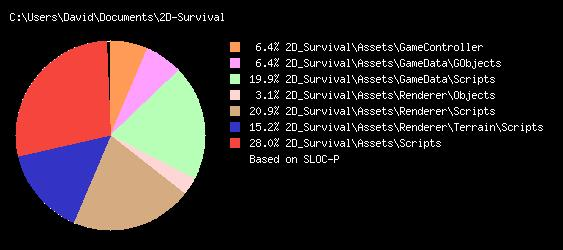
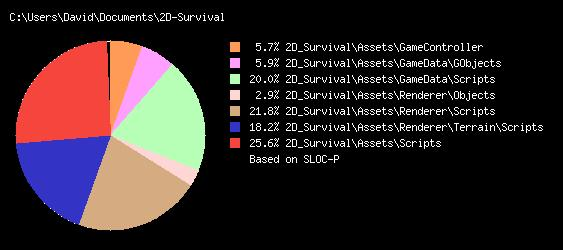
Documentacion agregada

diff --git a/LocMetrics.html b/LocMetrics.html
@@ -1,1 +1,1 @@
-<html xmlns="http:////www.w3.org//1999//xhtml" xml:lang="en" lang="en"><head><title></title><LINK REL=StyleSheet HREF="LocMetrics.css" TYPE="text/css" MEDIA=screen></head><body><img src="LocMetricsPie.jpg"/><p></p><TABLE CLASS="MYTABLE"><CAPTION CLASS="MYTABLE">Overall</CAPTION><THEAD ><TR CLASS="MYTABLE"><TH CLASS="MYTABLE">Symbol</TH><TH CLASS="MYTABLE">Count</TH><TH CLASS="MYTABLE">Definition</TH></TR></THEAD><TBODY><TR CLASS="MYTABLE"><TD CLASS="MYTABLEL">Source Files</TD><TD CLASS="MYTABLEL">20</TD><TD CLASS="MYTABLEL">Source Files</TD><TR CLASS="MYTABLE"><TD CLASS="MYTABLEL">Directories</TD><TD CLASS="MYTABLEL">307</TD><TD CLASS="MYTABLEL">Directories</TD><TR CLASS="MYTABLE"><TD CLASS="MYTABLEL">LOC</TD><TD CLASS="MYTABLEL">922</TD><TD CLASS="MYTABLEL">Lines of Code</TD><TR CLASS="MYTABLE"><TD CLASS="MYTABLEL">BLOC</TD><TD CLASS="MYTABLEL">220</TD><TD CLASS="MYTABLEL">Blank Lines of Code</TD><TR CLASS="MYTABLE"><TD CLASS="MYTABLEL">SLOC-P</TD><TD CLASS="MYTABLEL">607</TD><TD CLASS="MYTABLEL">Physical Executable Lines of Code</TD><TR CLASS="MYTABLE"><TD CLASS="MYTABLEL">SLOC-L </TD><TD CLASS="MYTABLEL">466</TD><TD CLASS="MYTABLEL">Logical Executable Lines of Code</TD><TR CLASS="MYTABLE"><TD CLASS="MYTABLEL">MVG</TD><TD CLASS="MYTABLEL">51</TD><TD CLASS="MYTABLEL">McCabe VG Complexity</TD><TR CLASS="MYTABLE"><TD CLASS="MYTABLEL">C&SLOC</TD><TD CLASS="MYTABLEL">1</TD><TD CLASS="MYTABLEL">Code and Comment Lines of Code</TD><TR CLASS="MYTABLE"><TD CLASS="MYTABLEL">CLOC</TD><TD CLASS="MYTABLEL">95</TD><TD CLASS="MYTABLEL">Comment Only Lines of Code</TD><TR CLASS="MYTABLE"><TD CLASS="MYTABLEL">CWORD</TD><TD CLASS="MYTABLEL">419</TD><TD CLASS="MYTABLEL">Commentary Words</TD><TR CLASS="MYTABLE"><TD CLASS="MYTABLEL">HCLOC</TD><TD CLASS="MYTABLEL">0</TD><TD CLASS="MYTABLEL">Header Comment Lines of Code</TD><TR CLASS="MYTABLE"><TD CLASS="MYTABLEL">HCWORD</TD><TD CLASS="MYTABLEL">0</TD><TD CLASS="MYTABLEL">Header Commentary Words</TD></TBODY></TABLE><p></p><TABLE CLASS="MYTABLE"><CAPTION CLASS="MYTABLE">C:\Users\David\Documents\2D-Survival - FOLDERS</CAPTION><THEAD ><TR CLASS="MYTABLE"><TH CLASS="MYTABLE">Folder</TH><TH CLASS="MYTABLE">Files</TH><TH CLASS="MYTABLE">LOC</TH><TH CLASS="MYTABLE">SLOC Physical</TH><TH CLASS="MYTABLE">SLOC Logical</TH><TH CLASS="MYTABLE">MVG</TH><TH CLASS="MYTABLE">BLOC</TH><TH CLASS="MYTABLE">C&SLOC</TH><TH CLASS="MYTABLE">CLOC</TH><TH CLASS="MYTABLE">CWORD</TH><TH CLASS="MYTABLE">HCLOC</TH><TH CLASS="MYTABLE">HCWORD</TH></TR></THEAD><TBODY><TR CLASS="MYTABLE"><TD CLASS="MYTABLEL">Total</TD><TD CLASS="MYTABLEL">20</TD><TD CLASS="MYTABLE">922</TD><TD CLASS="MYTABLE">607</TD><TD CLASS="MYTABLE">466</TD><TD CLASS="MYTABLE">51</TD><TD CLASS="MYTABLE">220</TD><TD CLASS="MYTABLE">1</TD><TD CLASS="MYTABLE">95</TD><TD CLASS="MYTABLE">419</TD><TD CLASS="MYTABLE">0</TD><TD CLASS="MYTABLE">0</TD><TR CLASS="MYTABLE"><TD CLASS="MYTABLEL">C:\Users\David\Documents\2D-Survival</TD><TD CLASS="MYTABLEL">20</TD><TD CLASS="MYTABLE">922</TD><TD CLASS="MYTABLE">607</TD><TD CLASS="MYTABLE">466</TD><TD CLASS="MYTABLE">51</TD><TD CLASS="MYTABLE">220</TD><TD CLASS="MYTABLE">1</TD><TD CLASS="MYTABLE">95</TD><TD CLASS="MYTABLE">419</TD><TD CLASS="MYTABLE">0</TD><TD CLASS="MYTABLE">0</TD><TR CLASS="MYTABLE"><TD CLASS="MYTABLEL">C:\Users\David\Documents\2D-Survival\2D_Survival</TD><TD CLASS="MYTABLEL">20</TD><TD CLASS="MYTABLE">922</TD><TD CLASS="MYTABLE">607</TD><TD CLASS="MYTABLE">466</TD><TD CLASS="MYTABLE">51</TD><TD CLASS="MYTABLE">220</TD><TD CLASS="MYTABLE">1</TD><TD CLASS="MYTABLE">95</TD><TD CLASS="MYTABLE">419</TD><TD CLASS="MYTABLE">0</TD><TD CLASS="MYTABLE">0</TD><TR CLASS="MYTABLE"><TD CLASS="MYTABLEL">C:\Users\David\Documents\2D-Survival\2D_Survival\Assets</TD><TD CLASS="MYTABLEL">20</TD><TD CLASS="MYTABLE">922</TD><TD CLASS="MYTABLE">607</TD><TD CLASS="MYTABLE">466</TD><TD CLASS="MYTABLE">51</TD><TD CLASS="MYTABLE">220</TD><TD CLASS="MYTABLE">1</TD><TD CLASS="MYTABLE">95</TD><TD CLASS="MYTABLE">419</TD><TD CLASS="MYTABLE">0</TD><TD CLASS="MYTABLE">0</TD><TR CLASS="MYTABLE"><TD CLASS="MYTABLEL">C:\Users\David\Documents\2D-Survival\2D_Survival\Assets\GameController</TD><TD CLASS="MYTABLEL">1</TD><TD CLASS="MYTABLE">54</TD><TD CLASS="MYTABLE">39</TD><TD CLASS="MYTABLE">31</TD><TD CLASS="MYTABLE">2</TD><TD CLASS="MYTABLE">13</TD><TD CLASS="MYTABLE">0</TD><TD CLASS="MYTABLE">2</TD><TD CLASS="MYTABLE">10</TD><TD CLASS="MYTABLE">0</TD><TD CLASS="MYTABLE">0</TD><TR CLASS="MYTABLE"><TD CLASS="MYTABLEL">C:\Users\David\Documents\2D-Survival\2D_Survival\Assets\GameController\Scripts</TD><TD CLASS="MYTABLEL">1</TD><TD CLASS="MYTABLE">54</TD><TD CLASS="MYTABLE">39</TD><TD CLASS="MYTABLE">31</TD><TD CLASS="MYTABLE">2</TD><TD CLASS="MYTABLE">13</TD><TD CLASS="MYTABLE">0</TD><TD CLASS="MYTABLE">2</TD><TD CLASS="MYTABLE">10</TD><TD CLASS="MYTABLE">0</TD><TD CLASS="MYTABLE">0</TD><TR CLASS="MYTABLE"><TD CLASS="MYTABLEL">C:\Users\David\Documents\2D-Survival\2D_Survival\Assets\GameData</TD><TD CLASS="MYTABLEL">12</TD><TD CLASS="MYTABLE">241</TD><TD CLASS="MYTABLE">160</TD><TD CLASS="MYTABLE">115</TD><TD CLASS="MYTABLE">10</TD><TD CLASS="MYTABLE">67</TD><TD CLASS="MYTABLE">0</TD><TD CLASS="MYTABLE">14</TD><TD CLASS="MYTABLE">48</TD><TD CLASS="MYTABLE">0</TD><TD CLASS="MYTABLE">0</TD><TR CLASS="MYTABLE"><TD CLASS="MYTABLEL">C:\Users\David\Documents\2D-Survival\2D_Survival\Assets\GameData\GObjects</TD><TD CLASS="MYTABLEL">9</TD><TD CLASS="MYTABLE">74</TD><TD CLASS="MYTABLE">39</TD><TD CLASS="MYTABLE">30</TD><TD CLASS="MYTABLE">0</TD><TD CLASS="MYTABLE">35</TD><TD CLASS="MYTABLE">0</TD><TD CLASS="MYTABLE">0</TD><TD CLASS="MYTABLE">0</TD><TD CLASS="MYTABLE">0</TD><TD CLASS="MYTABLE">0</TD><TR CLASS="MYTABLE"><TD CLASS="MYTABLEL">C:\Users\David\Documents\2D-Survival\2D_Survival\Assets\GameData\GObjects\GActors</TD><TD CLASS="MYTABLEL">4</TD><TD CLASS="MYTABLE">33</TD><TD CLASS="MYTABLE">16</TD><TD CLASS="MYTABLE">12</TD><TD CLASS="MYTABLE">0</TD><TD CLASS="MYTABLE">17</TD><TD CLASS="MYTABLE">0</TD><TD CLASS="MYTABLE">0</TD><TD CLASS="MYTABLE">0</TD><TD CLASS="MYTABLE">0</TD><TD CLASS="MYTABLE">0</TD><TR CLASS="MYTABLE"><TD CLASS="MYTABLEL">C:\Users\David\Documents\2D-Survival\2D_Survival\Assets\GameData\GObjects\GActors\Species</TD><TD CLASS="MYTABLEL">1</TD><TD CLASS="MYTABLE">9</TD><TD CLASS="MYTABLE">4</TD><TD CLASS="MYTABLE">3</TD><TD CLASS="MYTABLE">0</TD><TD CLASS="MYTABLE">5</TD><TD CLASS="MYTABLE">0</TD><TD CLASS="MYTABLE">0</TD><TD CLASS="MYTABLE">0</TD><TD CLASS="MYTABLE">0</TD><TD CLASS="MYTABLE">0</TD><TR CLASS="MYTABLE"><TD CLASS="MYTABLEL">C:\Users\David\Documents\2D-Survival\2D_Survival\Assets\GameData\GObjects\GItems</TD><TD CLASS="MYTABLEL">2</TD><TD CLASS="MYTABLE">16</TD><TD CLASS="MYTABLE">8</TD><TD CLASS="MYTABLE">6</TD><TD CLASS="MYTABLE">0</TD><TD CLASS="MYTABLE">8</TD><TD CLASS="MYTABLE">0</TD><TD CLASS="MYTABLE">0</TD><TD CLASS="MYTABLE">0</TD><TD CLASS="MYTABLE">0</TD><TD CLASS="MYTABLE">0</TD><TR CLASS="MYTABLE"><TD CLASS="MYTABLEL">C:\Users\David\Documents\2D-Survival\2D_Survival\Assets\GameData\GObjects\GStructures</TD><TD CLASS="MYTABLEL">2</TD><TD CLASS="MYTABLE">16</TD><TD CLASS="MYTABLE">8</TD><TD CLASS="MYTABLE">6</TD><TD CLASS="MYTABLE">0</TD><TD CLASS="MYTABLE">8</TD><TD CLASS="MYTABLE">0</TD><TD CLASS="MYTABLE">0</TD><TD CLASS="MYTABLE">0</TD><TD CLASS="MYTABLE">0</TD><TD CLASS="MYTABLE">0</TD><TR CLASS="MYTABLE"><TD CLASS="MYTABLEL">C:\Users\David\Documents\2D-Survival\2D_Survival\Assets\GameData\Scripts</TD><TD CLASS="MYTABLEL">3</TD><TD CLASS="MYTABLE">167</TD><TD CLASS="MYTABLE">121</TD><TD CLASS="MYTABLE">85</TD><TD CLASS="MYTABLE">10</TD><TD CLASS="MYTABLE">32</TD><TD CLASS="MYTABLE">0</TD><TD CLASS="MYTABLE">14</TD><TD CLASS="MYTABLE">48</TD><TD CLASS="MYTABLE">0</TD><TD CLASS="MYTABLE">0</TD><TR CLASS="MYTABLE"><TD CLASS="MYTABLEL">C:\Users\David\Documents\2D-Survival\2D_Survival\Assets\Renderer</TD><TD CLASS="MYTABLEL">4</TD><TD CLASS="MYTABLE">351</TD><TD CLASS="MYTABLE">238</TD><TD CLASS="MYTABLE">182</TD><TD CLASS="MYTABLE">19</TD><TD CLASS="MYTABLE">90</TD><TD CLASS="MYTABLE">0</TD><TD CLASS="MYTABLE">23</TD><TD CLASS="MYTABLE">80</TD><TD CLASS="MYTABLE">0</TD><TD CLASS="MYTABLE">0</TD><TR CLASS="MYTABLE"><TD CLASS="MYTABLEL">C:\Users\David\Documents\2D-Survival\2D_Survival\Assets\Renderer\Objects</TD><TD CLASS="MYTABLEL">1</TD><TD CLASS="MYTABLE">29</TD><TD CLASS="MYTABLE">19</TD><TD CLASS="MYTABLE">15</TD><TD CLASS="MYTABLE">1</TD><TD CLASS="MYTABLE">8</TD><TD CLASS="MYTABLE">0</TD><TD CLASS="MYTABLE">2</TD><TD CLASS="MYTABLE">7</TD><TD CLASS="MYTABLE">0</TD><TD CLASS="MYTABLE">0</TD><TR CLASS="MYTABLE"><TD CLASS="MYTABLEL">C:\Users\David\Documents\2D-Survival\2D_Survival\Assets\Renderer\Objects\Scripts</TD><TD CLASS="MYTABLEL">1</TD><TD CLASS="MYTABLE">29</TD><TD CLASS="MYTABLE">19</TD><TD CLASS="MYTABLE">15</TD><TD CLASS="MYTABLE">1</TD><TD CLASS="MYTABLE">8</TD><TD CLASS="MYTABLE">0</TD><TD CLASS="MYTABLE">2</TD><TD CLASS="MYTABLE">7</TD><TD CLASS="MYTABLE">0</TD><TD CLASS="MYTABLE">0</TD><TR CLASS="MYTABLE"><TD CLASS="MYTABLEL">C:\Users\David\Documents\2D-Survival\2D_Survival\Assets\Renderer\Scripts</TD><TD CLASS="MYTABLEL">1</TD><TD CLASS="MYTABLE">192</TD><TD CLASS="MYTABLE">127</TD><TD CLASS="MYTABLE">93</TD><TD CLASS="MYTABLE">12</TD><TD CLASS="MYTABLE">52</TD><TD CLASS="MYTABLE">0</TD><TD CLASS="MYTABLE">13</TD><TD CLASS="MYTABLE">41</TD><TD CLASS="MYTABLE">0</TD><TD CLASS="MYTABLE">0</TD><TR CLASS="MYTABLE"><TD CLASS="MYTABLEL">C:\Users\David\Documents\2D-Survival\2D_Survival\Assets\Renderer\Terrain</TD><TD CLASS="MYTABLEL">2</TD><TD CLASS="MYTABLE">130</TD><TD CLASS="MYTABLE">92</TD><TD CLASS="MYTABLE">74</TD><TD CLASS="MYTABLE">6</TD><TD CLASS="MYTABLE">30</TD><TD CLASS="MYTABLE">0</TD><TD CLASS="MYTABLE">8</TD><TD CLASS="MYTABLE">32</TD><TD CLASS="MYTABLE">0</TD><TD CLASS="MYTABLE">0</TD><TR CLASS="MYTABLE"><TD CLASS="MYTABLEL">C:\Users\David\Documents\2D-Survival\2D_Survival\Assets\Renderer\Terrain\Scripts</TD><TD CLASS="MYTABLEL">2</TD><TD CLASS="MYTABLE">130</TD><TD CLASS="MYTABLE">92</TD><TD CLASS="MYTABLE">74</TD><TD CLASS="MYTABLE">6</TD><TD CLASS="MYTABLE">30</TD><TD CLASS="MYTABLE">0</TD><TD CLASS="MYTABLE">8</TD><TD CLASS="MYTABLE">32</TD><TD CLASS="MYTABLE">0</TD><TD CLASS="MYTABLE">0</TD><TR CLASS="MYTABLE"><TD CLASS="MYTABLEL">C:\Users\David\Documents\2D-Survival\2D_Survival\Assets\Scripts</TD><TD CLASS="MYTABLEL">3</TD><TD CLASS="MYTABLE">276</TD><TD CLASS="MYTABLE">170</TD><TD CLASS="MYTABLE">138</TD><TD CLASS="MYTABLE">20</TD><TD CLASS="MYTABLE">50</TD><TD CLASS="MYTABLE">1</TD><TD CLASS="MYTABLE">56</TD><TD CLASS="MYTABLE">281</TD><TD CLASS="MYTABLE">0</TD><TD CLASS="MYTABLE">0</TD></TBODY></TABLE><p></p><TABLE CLASS="MYTABLE"><CAPTION CLASS="MYTABLE">C:\Users\David\Documents\2D-Survival - FILES</CAPTION><THEAD ><TR CLASS="MYTABLE"><TH CLASS="MYTABLE">File</TH><TH CLASS="MYTABLE">LOC</TH><TH CLASS="MYTABLE">SLOC Physical</TH><TH CLASS="MYTABLE">SLOC Logical</TH><TH CLASS="MYTABLE">MVG</TH><TH CLASS="MYTABLE">BLOC</TH><TH CLASS="MYTABLE">C&SLOC</TH><TH CLASS="MYTABLE">CLOC</TH><TH CLASS="MYTABLE">CWORD</TH><TH CLASS="MYTABLE">HCLOC</TH><TH CLASS="MYTABLE">HCWORD</TH></TR></THEAD><TBODY><TR CLASS="MYTABLE"><TD CLASS="MYTABLEL">C:\Users\David\Documents\2D-Survival\2D_Survival\Assets\GameController\Scripts\GameController.cs</TD><TD CLASS="MYTABLE">54</TD><TD CLASS="MYTABLE">39</TD><TD CLASS="MYTABLE">31</TD><TD CLASS="MYTABLE">2</TD><TD CLASS="MYTABLE">13</TD><TD CLASS="MYTABLE">0</TD><TD CLASS="MYTABLE">2</TD><TD CLASS="MYTABLE">10</TD><TD CLASS="MYTABLE">0</TD><TD CLASS="MYTABLE">0</TD><TR CLASS="MYTABLE"><TD CLASS="MYTABLEL">C:\Users\David\Documents\2D-Survival\2D_Survival\Assets\GameData\GObjects\GObject.cs</TD><TD CLASS="MYTABLE">9</TD><TD CLASS="MYTABLE">7</TD><TD CLASS="MYTABLE">6</TD><TD CLASS="MYTABLE">0</TD><TD CLASS="MYTABLE">2</TD><TD CLASS="MYTABLE">0</TD><TD CLASS="MYTABLE">0</TD><TD CLASS="MYTABLE">0</TD><TD CLASS="MYTABLE">0</TD><TD CLASS="MYTABLE">0</TD><TR CLASS="MYTABLE"><TD CLASS="MYTABLEL">C:\Users\David\Documents\2D-Survival\2D_Survival\Assets\GameData\GObjects\GActors\Birch.cs</TD><TD CLASS="MYTABLE">8</TD><TD CLASS="MYTABLE">4</TD><TD CLASS="MYTABLE">3</TD><TD CLASS="MYTABLE">0</TD><TD CLASS="MYTABLE">4</TD><TD CLASS="MYTABLE">0</TD><TD CLASS="MYTABLE">0</TD><TD CLASS="MYTABLE">0</TD><TD CLASS="MYTABLE">0</TD><TD CLASS="MYTABLE">0</TD><TR CLASS="MYTABLE"><TD CLASS="MYTABLEL">C:\Users\David\Documents\2D-Survival\2D_Survival\Assets\GameData\GObjects\GActors\GActor.cs</TD><TD CLASS="MYTABLE">8</TD><TD CLASS="MYTABLE">4</TD><TD CLASS="MYTABLE">3</TD><TD CLASS="MYTABLE">0</TD><TD CLASS="MYTABLE">4</TD><TD CLASS="MYTABLE">0</TD><TD CLASS="MYTABLE">0</TD><TD CLASS="MYTABLE">0</TD><TD CLASS="MYTABLE">0</TD><TD CLASS="MYTABLE">0</TD><TR CLASS="MYTABLE"><TD CLASS="MYTABLEL">C:\Users\David\Documents\2D-Survival\2D_Survival\Assets\GameData\GObjects\GActors\Player.cs</TD><TD CLASS="MYTABLE">8</TD><TD CLASS="MYTABLE">4</TD><TD CLASS="MYTABLE">3</TD><TD CLASS="MYTABLE">0</TD><TD CLASS="MYTABLE">4</TD><TD CLASS="MYTABLE">0</TD><TD CLASS="MYTABLE">0</TD><TD CLASS="MYTABLE">0</TD><TD CLASS="MYTABLE">0</TD><TD CLASS="MYTABLE">0</TD><TR CLASS="MYTABLE"><TD CLASS="MYTABLEL">C:\Users\David\Documents\2D-Survival\2D_Survival\Assets\GameData\GObjects\GActors\Species\Species.cs</TD><TD CLASS="MYTABLE">9</TD><TD CLASS="MYTABLE">4</TD><TD CLASS="MYTABLE">3</TD><TD CLASS="MYTABLE">0</TD><TD CLASS="MYTABLE">5</TD><TD CLASS="MYTABLE">0</TD><TD CLASS="MYTABLE">0</TD><TD CLASS="MYTABLE">0</TD><TD CLASS="MYTABLE">0</TD><TD CLASS="MYTABLE">0</TD><TR CLASS="MYTABLE"><TD CLASS="MYTABLEL">C:\Users\David\Documents\2D-Survival\2D_Survival\Assets\GameData\GObjects\GItems\Berry.cs</TD><TD CLASS="MYTABLE">8</TD><TD CLASS="MYTABLE">4</TD><TD CLASS="MYTABLE">3</TD><TD CLASS="MYTABLE">0</TD><TD CLASS="MYTABLE">4</TD><TD CLASS="MYTABLE">0</TD><TD CLASS="MYTABLE">0</TD><TD CLASS="MYTABLE">0</TD><TD CLASS="MYTABLE">0</TD><TD CLASS="MYTABLE">0</TD><TR CLASS="MYTABLE"><TD CLASS="MYTABLEL">C:\Users\David\Documents\2D-Survival\2D_Survival\Assets\GameData\GObjects\GItems\GItem.cs</TD><TD CLASS="MYTABLE">8</TD><TD CLASS="MYTABLE">4</TD><TD CLASS="MYTABLE">3</TD><TD CLASS="MYTABLE">0</TD><TD CLASS="MYTABLE">4</TD><TD CLASS="MYTABLE">0</TD><TD CLASS="MYTABLE">0</TD><TD CLASS="MYTABLE">0</TD><TD CLASS="MYTABLE">0</TD><TD CLASS="MYTABLE">0</TD><TR CLASS="MYTABLE"><TD CLASS="MYTABLEL">C:\Users\David\Documents\2D-Survival\2D_Survival\Assets\GameData\GObjects\GStructures\Barrel.cs</TD><TD CLASS="MYTABLE">8</TD><TD CLASS="MYTABLE">4</TD><TD CLASS="MYTABLE">3</TD><TD CLASS="MYTABLE">0</TD><TD CLASS="MYTABLE">4</TD><TD CLASS="MYTABLE">0</TD><TD CLASS="MYTABLE">0</TD><TD CLASS="MYTABLE">0</TD><TD CLASS="MYTABLE">0</TD><TD CLASS="MYTABLE">0</TD><TR CLASS="MYTABLE"><TD CLASS="MYTABLEL">C:\Users\David\Documents\2D-Survival\2D_Survival\Assets\GameData\GObjects\GStructures\GStructure.cs</TD><TD CLASS="MYTABLE">8</TD><TD CLASS="MYTABLE">4</TD><TD CLASS="MYTABLE">3</TD><TD CLASS="MYTABLE">0</TD><TD CLASS="MYTABLE">4</TD><TD CLASS="MYTABLE">0</TD><TD CLASS="MYTABLE">0</TD><TD CLASS="MYTABLE">0</TD><TD CLASS="MYTABLE">0</TD><TD CLASS="MYTABLE">0</TD><TR CLASS="MYTABLE"><TD CLASS="MYTABLEL">C:\Users\David\Documents\2D-Survival\2D_Survival\Assets\GameData\Scripts\GameData.cs</TD><TD CLASS="MYTABLE">110</TD><TD CLASS="MYTABLE">80</TD><TD CLASS="MYTABLE">50</TD><TD CLASS="MYTABLE">10</TD><TD CLASS="MYTABLE">19</TD><TD CLASS="MYTABLE">0</TD><TD CLASS="MYTABLE">11</TD><TD CLASS="MYTABLE">36</TD><TD CLASS="MYTABLE">0</TD><TD CLASS="MYTABLE">0</TD><TR CLASS="MYTABLE"><TD CLASS="MYTABLEL">C:\Users\David\Documents\2D-Survival\2D_Survival\Assets\GameData\Scripts\GTile.cs</TD><TD CLASS="MYTABLE">19</TD><TD CLASS="MYTABLE">13</TD><TD CLASS="MYTABLE">11</TD><TD CLASS="MYTABLE">0</TD><TD CLASS="MYTABLE">5</TD><TD CLASS="MYTABLE">0</TD><TD CLASS="MYTABLE">1</TD><TD CLASS="MYTABLE">4</TD><TD CLASS="MYTABLE">0</TD><TD CLASS="MYTABLE">0</TD><TR CLASS="MYTABLE"><TD CLASS="MYTABLEL">C:\Users\David\Documents\2D-Survival\2D_Survival\Assets\GameData\Scripts\WorldSector.cs</TD><TD CLASS="MYTABLE">38</TD><TD CLASS="MYTABLE">28</TD><TD CLASS="MYTABLE">24</TD><TD CLASS="MYTABLE">0</TD><TD CLASS="MYTABLE">8</TD><TD CLASS="MYTABLE">0</TD><TD CLASS="MYTABLE">2</TD><TD CLASS="MYTABLE">8</TD><TD CLASS="MYTABLE">0</TD><TD CLASS="MYTABLE">0</TD><TR CLASS="MYTABLE"><TD CLASS="MYTABLEL">C:\Users\David\Documents\2D-Survival\2D_Survival\Assets\Renderer\Objects\Scripts\ObjectRenderer.cs</TD><TD CLASS="MYTABLE">29</TD><TD CLASS="MYTABLE">19</TD><TD CLASS="MYTABLE">15</TD><TD CLASS="MYTABLE">1</TD><TD CLASS="MYTABLE">8</TD><TD CLASS="MYTABLE">0</TD><TD CLASS="MYTABLE">2</TD><TD CLASS="MYTABLE">7</TD><TD CLASS="MYTABLE">0</TD><TD CLASS="MYTABLE">0</TD><TR CLASS="MYTABLE"><TD CLASS="MYTABLEL">C:\Users\David\Documents\2D-Survival\2D_Survival\Assets\Renderer\Scripts\GameRenderer.cs</TD><TD CLASS="MYTABLE">192</TD><TD CLASS="MYTABLE">127</TD><TD CLASS="MYTABLE">93</TD><TD CLASS="MYTABLE">12</TD><TD CLASS="MYTABLE">52</TD><TD CLASS="MYTABLE">0</TD><TD CLASS="MYTABLE">13</TD><TD CLASS="MYTABLE">41</TD><TD CLASS="MYTABLE">0</TD><TD CLASS="MYTABLE">0</TD><TR CLASS="MYTABLE"><TD CLASS="MYTABLEL">C:\Users\David\Documents\2D-Survival\2D_Survival\Assets\Renderer\Terrain\Scripts\TerrainRenderer.cs</TD><TD CLASS="MYTABLE">105</TD><TD CLASS="MYTABLE">72</TD><TD CLASS="MYTABLE">57</TD><TD CLASS="MYTABLE">3</TD><TD CLASS="MYTABLE">25</TD><TD CLASS="MYTABLE">0</TD><TD CLASS="MYTABLE">8</TD><TD CLASS="MYTABLE">32</TD><TD CLASS="MYTABLE">0</TD><TD CLASS="MYTABLE">0</TD><TR CLASS="MYTABLE"><TD CLASS="MYTABLEL">C:\Users\David\Documents\2D-Survival\2D_Survival\Assets\Renderer\Terrain\Scripts\TerrainTextureManager.cs</TD><TD CLASS="MYTABLE">25</TD><TD CLASS="MYTABLE">20</TD><TD CLASS="MYTABLE">17</TD><TD CLASS="MYTABLE">3</TD><TD CLASS="MYTABLE">5</TD><TD CLASS="MYTABLE">0</TD><TD CLASS="MYTABLE">0</TD><TD CLASS="MYTABLE">0</TD><TD CLASS="MYTABLE">0</TD><TD CLASS="MYTABLE">0</TD><TR CLASS="MYTABLE"><TD CLASS="MYTABLEL">C:\Users\David\Documents\2D-Survival\2D_Survival\Assets\Scripts\GameObjectPool.cs</TD><TD CLASS="MYTABLE">46</TD><TD CLASS="MYTABLE">37</TD><TD CLASS="MYTABLE">29</TD><TD CLASS="MYTABLE">5</TD><TD CLASS="MYTABLE">9</TD><TD CLASS="MYTABLE">0</TD><TD CLASS="MYTABLE">0</TD><TD CLASS="MYTABLE">0</TD><TD CLASS="MYTABLE">0</TD><TD CLASS="MYTABLE">0</TD><TR CLASS="MYTABLE"><TD CLASS="MYTABLEL">C:\Users\David\Documents\2D-Survival\2D_Survival\Assets\Scripts\HashTable.cs</TD><TD CLASS="MYTABLE">13</TD><TD CLASS="MYTABLE">6</TD><TD CLASS="MYTABLE">4</TD><TD CLASS="MYTABLE">0</TD><TD CLASS="MYTABLE">7</TD><TD CLASS="MYTABLE">0</TD><TD CLASS="MYTABLE">0</TD><TD CLASS="MYTABLE">0</TD><TD CLASS="MYTABLE">0</TD><TD CLASS="MYTABLE">0</TD><TR CLASS="MYTABLE"><TD CLASS="MYTABLEL">C:\Users\David\Documents\2D-Survival\2D_Survival\Assets\Scripts\Types.cs</TD><TD CLASS="MYTABLE">217</TD><TD CLASS="MYTABLE">127</TD><TD CLASS="MYTABLE">105</TD><TD CLASS="MYTABLE">15</TD><TD CLASS="MYTABLE">34</TD><TD CLASS="MYTABLE">1</TD><TD CLASS="MYTABLE">56</TD><TD CLASS="MYTABLE">281</TD><TD CLASS="MYTABLE">0</TD><TD CLASS="MYTABLE">0</TD></TBODY></TABLE><p></p></BODY></HTML>
+<html xmlns="http:////www.w3.org//1999//xhtml" xml:lang="en" lang="en"><head><title></title><LINK REL=StyleSheet HREF="LocMetrics.css" TYPE="text/css" MEDIA=screen></head><body><img src="LocMetricsPie.jpg"/><p></p><TABLE CLASS="MYTABLE"><CAPTION CLASS="MYTABLE">Overall</CAPTION><THEAD ><TR CLASS="MYTABLE"><TH CLASS="MYTABLE">Symbol</TH><TH CLASS="MYTABLE">Count</TH><TH CLASS="MYTABLE">Definition</TH></TR></THEAD><TBODY><TR CLASS="MYTABLE"><TD CLASS="MYTABLEL">Source Files</TD><TD CLASS="MYTABLEL">20</TD><TD CLASS="MYTABLEL">Source Files</TD><TR CLASS="MYTABLE"><TD CLASS="MYTABLEL">Directories</TD><TD CLASS="MYTABLEL">307</TD><TD CLASS="MYTABLEL">Directories</TD><TR CLASS="MYTABLE"><TD CLASS="MYTABLEL">LOC</TD><TD CLASS="MYTABLEL">980</TD><TD CLASS="MYTABLEL">Lines of Code</TD><TR CLASS="MYTABLE"><TD CLASS="MYTABLEL">BLOC</TD><TD CLASS="MYTABLEL">233</TD><TD CLASS="MYTABLEL">Blank Lines of Code</TD><TR CLASS="MYTABLE"><TD CLASS="MYTABLEL">SLOC-P</TD><TD CLASS="MYTABLEL">661</TD><TD CLASS="MYTABLEL">Physical Executable Lines of Code</TD><TR CLASS="MYTABLE"><TD CLASS="MYTABLEL">SLOC-L </TD><TD CLASS="MYTABLEL">497</TD><TD CLASS="MYTABLEL">Logical Executable Lines of Code</TD><TR CLASS="MYTABLE"><TD CLASS="MYTABLEL">MVG</TD><TD CLASS="MYTABLEL">66</TD><TD CLASS="MYTABLEL">McCabe VG Complexity</TD><TR CLASS="MYTABLE"><TD CLASS="MYTABLEL">C&SLOC</TD><TD CLASS="MYTABLEL">3</TD><TD CLASS="MYTABLEL">Code and Comment Lines of Code</TD><TR CLASS="MYTABLE"><TD CLASS="MYTABLEL">CLOC</TD><TD CLASS="MYTABLEL">86</TD><TD CLASS="MYTABLEL">Comment Only Lines of Code</TD><TR CLASS="MYTABLE"><TD CLASS="MYTABLEL">CWORD</TD><TD CLASS="MYTABLEL">415</TD><TD CLASS="MYTABLEL">Commentary Words</TD><TR CLASS="MYTABLE"><TD CLASS="MYTABLEL">HCLOC</TD><TD CLASS="MYTABLEL">0</TD><TD CLASS="MYTABLEL">Header Comment Lines of Code</TD><TR CLASS="MYTABLE"><TD CLASS="MYTABLEL">HCWORD</TD><TD CLASS="MYTABLEL">0</TD><TD CLASS="MYTABLEL">Header Commentary Words</TD></TBODY></TABLE><p></p><TABLE CLASS="MYTABLE"><CAPTION CLASS="MYTABLE">C:\Users\David\Documents\2D-Survival - FOLDERS</CAPTION><THEAD ><TR CLASS="MYTABLE"><TH CLASS="MYTABLE">Folder</TH><TH CLASS="MYTABLE">Files</TH><TH CLASS="MYTABLE">LOC</TH><TH CLASS="MYTABLE">SLOC Physical</TH><TH CLASS="MYTABLE">SLOC Logical</TH><TH CLASS="MYTABLE">MVG</TH><TH CLASS="MYTABLE">BLOC</TH><TH CLASS="MYTABLE">C&SLOC</TH><TH CLASS="MYTABLE">CLOC</TH><TH CLASS="MYTABLE">CWORD</TH><TH CLASS="MYTABLE">HCLOC</TH><TH CLASS="MYTABLE">HCWORD</TH></TR></THEAD><TBODY><TR CLASS="MYTABLE"><TD CLASS="MYTABLEL">Total</TD><TD CLASS="MYTABLEL">20</TD><TD CLASS="MYTABLE">980</TD><TD CLASS="MYTABLE">661</TD><TD CLASS="MYTABLE">497</TD><TD CLASS="MYTABLE">66</TD><TD CLASS="MYTABLE">233</TD><TD CLASS="MYTABLE">3</TD><TD CLASS="MYTABLE">86</TD><TD CLASS="MYTABLE">415</TD><TD CLASS="MYTABLE">0</TD><TD CLASS="MYTABLE">0</TD><TR CLASS="MYTABLE"><TD CLASS="MYTABLEL">C:\Users\David\Documents\2D-Survival</TD><TD CLASS="MYTABLEL">20</TD><TD CLASS="MYTABLE">980</TD><TD CLASS="MYTABLE">661</TD><TD CLASS="MYTABLE">497</TD><TD CLASS="MYTABLE">66</TD><TD CLASS="MYTABLE">233</TD><TD CLASS="MYTABLE">3</TD><TD CLASS="MYTABLE">86</TD><TD CLASS="MYTABLE">415</TD><TD CLASS="MYTABLE">0</TD><TD CLASS="MYTABLE">0</TD><TR CLASS="MYTABLE"><TD CLASS="MYTABLEL">C:\Users\David\Documents\2D-Survival\2D_Survival</TD><TD CLASS="MYTABLEL">20</TD><TD CLASS="MYTABLE">980</TD><TD CLASS="MYTABLE">661</TD><TD CLASS="MYTABLE">497</TD><TD CLASS="MYTABLE">66</TD><TD CLASS="MYTABLE">233</TD><TD CLASS="MYTABLE">3</TD><TD CLASS="MYTABLE">86</TD><TD CLASS="MYTABLE">415</TD><TD CLASS="MYTABLE">0</TD><TD CLASS="MYTABLE">0</TD><TR CLASS="MYTABLE"><TD CLASS="MYTABLEL">C:\Users\David\Documents\2D-Survival\2D_Survival\Assets</TD><TD CLASS="MYTABLEL">20</TD><TD CLASS="MYTABLE">980</TD><TD CLASS="MYTABLE">661</TD><TD CLASS="MYTABLE">497</TD><TD CLASS="MYTABLE">66</TD><TD CLASS="MYTABLE">233</TD><TD CLASS="MYTABLE">3</TD><TD CLASS="MYTABLE">86</TD><TD CLASS="MYTABLE">415</TD><TD CLASS="MYTABLE">0</TD><TD CLASS="MYTABLE">0</TD><TR CLASS="MYTABLE"><TD CLASS="MYTABLEL">C:\Users\David\Documents\2D-Survival\2D_Survival\Assets\GameController</TD><TD CLASS="MYTABLEL">1</TD><TD CLASS="MYTABLE">53</TD><TD CLASS="MYTABLE">38</TD><TD CLASS="MYTABLE">30</TD><TD CLASS="MYTABLE">2</TD><TD CLASS="MYTABLE">13</TD><TD CLASS="MYTABLE">1</TD><TD CLASS="MYTABLE">2</TD><TD CLASS="MYTABLE">17</TD><TD CLASS="MYTABLE">0</TD><TD CLASS="MYTABLE">0</TD><TR CLASS="MYTABLE"><TD CLASS="MYTABLEL">C:\Users\David\Documents\2D-Survival\2D_Survival\Assets\GameController\Scripts</TD><TD CLASS="MYTABLEL">1</TD><TD CLASS="MYTABLE">53</TD><TD CLASS="MYTABLE">38</TD><TD CLASS="MYTABLE">30</TD><TD CLASS="MYTABLE">2</TD><TD CLASS="MYTABLE">13</TD><TD CLASS="MYTABLE">1</TD><TD CLASS="MYTABLE">2</TD><TD CLASS="MYTABLE">17</TD><TD CLASS="MYTABLE">0</TD><TD CLASS="MYTABLE">0</TD><TR CLASS="MYTABLE"><TD CLASS="MYTABLEL">C:\Users\David\Documents\2D-Survival\2D_Survival\Assets\GameData</TD><TD CLASS="MYTABLEL">12</TD><TD CLASS="MYTABLE">244</TD><TD CLASS="MYTABLE">171</TD><TD CLASS="MYTABLE">122</TD><TD CLASS="MYTABLE">14</TD><TD CLASS="MYTABLE">68</TD><TD CLASS="MYTABLE">0</TD><TD CLASS="MYTABLE">5</TD><TD CLASS="MYTABLE">16</TD><TD CLASS="MYTABLE">0</TD><TD CLASS="MYTABLE">0</TD><TR CLASS="MYTABLE"><TD CLASS="MYTABLEL">C:\Users\David\Documents\2D-Survival\2D_Survival\Assets\GameData\GObjects</TD><TD CLASS="MYTABLEL">9</TD><TD CLASS="MYTABLE">74</TD><TD CLASS="MYTABLE">39</TD><TD CLASS="MYTABLE">30</TD><TD CLASS="MYTABLE">0</TD><TD CLASS="MYTABLE">35</TD><TD CLASS="MYTABLE">0</TD><TD CLASS="MYTABLE">0</TD><TD CLASS="MYTABLE">0</TD><TD CLASS="MYTABLE">0</TD><TD CLASS="MYTABLE">0</TD><TR CLASS="MYTABLE"><TD CLASS="MYTABLEL">C:\Users\David\Documents\2D-Survival\2D_Survival\Assets\GameData\GObjects\GActors</TD><TD CLASS="MYTABLEL">4</TD><TD CLASS="MYTABLE">33</TD><TD CLASS="MYTABLE">16</TD><TD CLASS="MYTABLE">12</TD><TD CLASS="MYTABLE">0</TD><TD CLASS="MYTABLE">17</TD><TD CLASS="MYTABLE">0</TD><TD CLASS="MYTABLE">0</TD><TD CLASS="MYTABLE">0</TD><TD CLASS="MYTABLE">0</TD><TD CLASS="MYTABLE">0</TD><TR CLASS="MYTABLE"><TD CLASS="MYTABLEL">C:\Users\David\Documents\2D-Survival\2D_Survival\Assets\GameData\GObjects\GActors\Species</TD><TD CLASS="MYTABLEL">1</TD><TD CLASS="MYTABLE">9</TD><TD CLASS="MYTABLE">4</TD><TD CLASS="MYTABLE">3</TD><TD CLASS="MYTABLE">0</TD><TD CLASS="MYTABLE">5</TD><TD CLASS="MYTABLE">0</TD><TD CLASS="MYTABLE">0</TD><TD CLASS="MYTABLE">0</TD><TD CLASS="MYTABLE">0</TD><TD CLASS="MYTABLE">0</TD><TR CLASS="MYTABLE"><TD CLASS="MYTABLEL">C:\Users\David\Documents\2D-Survival\2D_Survival\Assets\GameData\GObjects\GItems</TD><TD CLASS="MYTABLEL">2</TD><TD CLASS="MYTABLE">16</TD><TD CLASS="MYTABLE">8</TD><TD CLASS="MYTABLE">6</TD><TD CLASS="MYTABLE">0</TD><TD CLASS="MYTABLE">8</TD><TD CLASS="MYTABLE">0</TD><TD CLASS="MYTABLE">0</TD><TD CLASS="MYTABLE">0</TD><TD CLASS="MYTABLE">0</TD><TD CLASS="MYTABLE">0</TD><TR CLASS="MYTABLE"><TD CLASS="MYTABLEL">C:\Users\David\Documents\2D-Survival\2D_Survival\Assets\GameData\GObjects\GStructures</TD><TD CLASS="MYTABLEL">2</TD><TD CLASS="MYTABLE">16</TD><TD CLASS="MYTABLE">8</TD><TD CLASS="MYTABLE">6</TD><TD CLASS="MYTABLE">0</TD><TD CLASS="MYTABLE">8</TD><TD CLASS="MYTABLE">0</TD><TD CLASS="MYTABLE">0</TD><TD CLASS="MYTABLE">0</TD><TD CLASS="MYTABLE">0</TD><TD CLASS="MYTABLE">0</TD><TR CLASS="MYTABLE"><TD CLASS="MYTABLEL">C:\Users\David\Documents\2D-Survival\2D_Survival\Assets\GameData\Scripts</TD><TD CLASS="MYTABLEL">3</TD><TD CLASS="MYTABLE">170</TD><TD CLASS="MYTABLE">132</TD><TD CLASS="MYTABLE">92</TD><TD CLASS="MYTABLE">14</TD><TD CLASS="MYTABLE">33</TD><TD CLASS="MYTABLE">0</TD><TD CLASS="MYTABLE">5</TD><TD CLASS="MYTABLE">16</TD><TD CLASS="MYTABLE">0</TD><TD CLASS="MYTABLE">0</TD><TR CLASS="MYTABLE"><TD CLASS="MYTABLEL">C:\Users\David\Documents\2D-Survival\2D_Survival\Assets\Renderer</TD><TD CLASS="MYTABLEL">4</TD><TD CLASS="MYTABLE">408</TD><TD CLASS="MYTABLE">283</TD><TD CLASS="MYTABLE">208</TD><TD CLASS="MYTABLE">30</TD><TD CLASS="MYTABLE">102</TD><TD CLASS="MYTABLE">0</TD><TD CLASS="MYTABLE">23</TD><TD CLASS="MYTABLE">99</TD><TD CLASS="MYTABLE">0</TD><TD CLASS="MYTABLE">0</TD><TR CLASS="MYTABLE"><TD CLASS="MYTABLEL">C:\Users\David\Documents\2D-Survival\2D_Survival\Assets\Renderer\Objects</TD><TD CLASS="MYTABLEL">1</TD><TD CLASS="MYTABLE">29</TD><TD CLASS="MYTABLE">19</TD><TD CLASS="MYTABLE">15</TD><TD CLASS="MYTABLE">1</TD><TD CLASS="MYTABLE">8</TD><TD CLASS="MYTABLE">0</TD><TD CLASS="MYTABLE">2</TD><TD CLASS="MYTABLE">7</TD><TD CLASS="MYTABLE">0</TD><TD CLASS="MYTABLE">0</TD><TR CLASS="MYTABLE"><TD CLASS="MYTABLEL">C:\Users\David\Documents\2D-Survival\2D_Survival\Assets\Renderer\Objects\Scripts</TD><TD CLASS="MYTABLEL">1</TD><TD CLASS="MYTABLE">29</TD><TD CLASS="MYTABLE">19</TD><TD CLASS="MYTABLE">15</TD><TD CLASS="MYTABLE">1</TD><TD CLASS="MYTABLE">8</TD><TD CLASS="MYTABLE">0</TD><TD CLASS="MYTABLE">2</TD><TD CLASS="MYTABLE">7</TD><TD CLASS="MYTABLE">0</TD><TD CLASS="MYTABLE">0</TD><TR CLASS="MYTABLE"><TD CLASS="MYTABLEL">C:\Users\David\Documents\2D-Survival\2D_Survival\Assets\Renderer\Scripts</TD><TD CLASS="MYTABLEL">1</TD><TD CLASS="MYTABLE">220</TD><TD CLASS="MYTABLE">144</TD><TD CLASS="MYTABLE">100</TD><TD CLASS="MYTABLE">22</TD><TD CLASS="MYTABLE">59</TD><TD CLASS="MYTABLE">0</TD><TD CLASS="MYTABLE">17</TD><TD CLASS="MYTABLE">79</TD><TD CLASS="MYTABLE">0</TD><TD CLASS="MYTABLE">0</TD><TR CLASS="MYTABLE"><TD CLASS="MYTABLEL">C:\Users\David\Documents\2D-Survival\2D_Survival\Assets\Renderer\Terrain</TD><TD CLASS="MYTABLEL">2</TD><TD CLASS="MYTABLE">159</TD><TD CLASS="MYTABLE">120</TD><TD CLASS="MYTABLE">93</TD><TD CLASS="MYTABLE">7</TD><TD CLASS="MYTABLE">35</TD><TD CLASS="MYTABLE">0</TD><TD CLASS="MYTABLE">4</TD><TD CLASS="MYTABLE">13</TD><TD CLASS="MYTABLE">0</TD><TD CLASS="MYTABLE">0</TD><TR CLASS="MYTABLE"><TD CLASS="MYTABLEL">C:\Users\David\Documents\2D-Survival\2D_Survival\Assets\Renderer\Terrain\Scripts</TD><TD CLASS="MYTABLEL">2</TD><TD CLASS="MYTABLE">159</TD><TD CLASS="MYTABLE">120</TD><TD CLASS="MYTABLE">93</TD><TD CLASS="MYTABLE">7</TD><TD CLASS="MYTABLE">35</TD><TD CLASS="MYTABLE">0</TD><TD CLASS="MYTABLE">4</TD><TD CLASS="MYTABLE">13</TD><TD CLASS="MYTABLE">0</TD><TD CLASS="MYTABLE">0</TD><TR CLASS="MYTABLE"><TD CLASS="MYTABLEL">C:\Users\David\Documents\2D-Survival\2D_Survival\Assets\Scripts</TD><TD CLASS="MYTABLEL">3</TD><TD CLASS="MYTABLE">275</TD><TD CLASS="MYTABLE">169</TD><TD CLASS="MYTABLE">137</TD><TD CLASS="MYTABLE">20</TD><TD CLASS="MYTABLE">50</TD><TD CLASS="MYTABLE">2</TD><TD CLASS="MYTABLE">56</TD><TD CLASS="MYTABLE">283</TD><TD CLASS="MYTABLE">0</TD><TD CLASS="MYTABLE">0</TD></TBODY></TABLE><p></p><TABLE CLASS="MYTABLE"><CAPTION CLASS="MYTABLE">C:\Users\David\Documents\2D-Survival - FILES</CAPTION><THEAD ><TR CLASS="MYTABLE"><TH CLASS="MYTABLE">File</TH><TH CLASS="MYTABLE">LOC</TH><TH CLASS="MYTABLE">SLOC Physical</TH><TH CLASS="MYTABLE">SLOC Logical</TH><TH CLASS="MYTABLE">MVG</TH><TH CLASS="MYTABLE">BLOC</TH><TH CLASS="MYTABLE">C&SLOC</TH><TH CLASS="MYTABLE">CLOC</TH><TH CLASS="MYTABLE">CWORD</TH><TH CLASS="MYTABLE">HCLOC</TH><TH CLASS="MYTABLE">HCWORD</TH></TR></THEAD><TBODY><TR CLASS="MYTABLE"><TD CLASS="MYTABLEL">C:\Users\David\Documents\2D-Survival\2D_Survival\Assets\GameController\Scripts\GameController.cs</TD><TD CLASS="MYTABLE">53</TD><TD CLASS="MYTABLE">38</TD><TD CLASS="MYTABLE">30</TD><TD CLASS="MYTABLE">2</TD><TD CLASS="MYTABLE">13</TD><TD CLASS="MYTABLE">1</TD><TD CLASS="MYTABLE">2</TD><TD CLASS="MYTABLE">17</TD><TD CLASS="MYTABLE">0</TD><TD CLASS="MYTABLE">0</TD><TR CLASS="MYTABLE"><TD CLASS="MYTABLEL">C:\Users\David\Documents\2D-Survival\2D_Survival\Assets\GameData\GObjects\GObject.cs</TD><TD CLASS="MYTABLE">9</TD><TD CLASS="MYTABLE">7</TD><TD CLASS="MYTABLE">6</TD><TD CLASS="MYTABLE">0</TD><TD CLASS="MYTABLE">2</TD><TD CLASS="MYTABLE">0</TD><TD CLASS="MYTABLE">0</TD><TD CLASS="MYTABLE">0</TD><TD CLASS="MYTABLE">0</TD><TD CLASS="MYTABLE">0</TD><TR CLASS="MYTABLE"><TD CLASS="MYTABLEL">C:\Users\David\Documents\2D-Survival\2D_Survival\Assets\GameData\GObjects\GActors\Birch.cs</TD><TD CLASS="MYTABLE">8</TD><TD CLASS="MYTABLE">4</TD><TD CLASS="MYTABLE">3</TD><TD CLASS="MYTABLE">0</TD><TD CLASS="MYTABLE">4</TD><TD CLASS="MYTABLE">0</TD><TD CLASS="MYTABLE">0</TD><TD CLASS="MYTABLE">0</TD><TD CLASS="MYTABLE">0</TD><TD CLASS="MYTABLE">0</TD><TR CLASS="MYTABLE"><TD CLASS="MYTABLEL">C:\Users\David\Documents\2D-Survival\2D_Survival\Assets\GameData\GObjects\GActors\GActor.cs</TD><TD CLASS="MYTABLE">8</TD><TD CLASS="MYTABLE">4</TD><TD CLASS="MYTABLE">3</TD><TD CLASS="MYTABLE">0</TD><TD CLASS="MYTABLE">4</TD><TD CLASS="MYTABLE">0</TD><TD CLASS="MYTABLE">0</TD><TD CLASS="MYTABLE">0</TD><TD CLASS="MYTABLE">0</TD><TD CLASS="MYTABLE">0</TD><TR CLASS="MYTABLE"><TD CLASS="MYTABLEL">C:\Users\David\Documents\2D-Survival\2D_Survival\Assets\GameData\GObjects\GActors\Player.cs</TD><TD CLASS="MYTABLE">8</TD><TD CLASS="MYTABLE">4</TD><TD CLASS="MYTABLE">3</TD><TD CLASS="MYTABLE">0</TD><TD CLASS="MYTABLE">4</TD><TD CLASS="MYTABLE">0</TD><TD CLASS="MYTABLE">0</TD><TD CLASS="MYTABLE">0</TD><TD CLASS="MYTABLE">0</TD><TD CLASS="MYTABLE">0</TD><TR CLASS="MYTABLE"><TD CLASS="MYTABLEL">C:\Users\David\Documents\2D-Survival\2D_Survival\Assets\GameData\GObjects\GActors\Species\Species.cs</TD><TD CLASS="MYTABLE">9</TD><TD CLASS="MYTABLE">4</TD><TD CLASS="MYTABLE">3</TD><TD CLASS="MYTABLE">0</TD><TD CLASS="MYTABLE">5</TD><TD CLASS="MYTABLE">0</TD><TD CLASS="MYTABLE">0</TD><TD CLASS="MYTABLE">0</TD><TD CLASS="MYTABLE">0</TD><TD CLASS="MYTABLE">0</TD><TR CLASS="MYTABLE"><TD CLASS="MYTABLEL">C:\Users\David\Documents\2D-Survival\2D_Survival\Assets\GameData\GObjects\GItems\Berry.cs</TD><TD CLASS="MYTABLE">8</TD><TD CLASS="MYTABLE">4</TD><TD CLASS="MYTABLE">3</TD><TD CLASS="MYTABLE">0</TD><TD CLASS="MYTABLE">4</TD><TD CLASS="MYTABLE">0</TD><TD CLASS="MYTABLE">0</TD><TD CLASS="MYTABLE">0</TD><TD CLASS="MYTABLE">0</TD><TD CLASS="MYTABLE">0</TD><TR CLASS="MYTABLE"><TD CLASS="MYTABLEL">C:\Users\David\Documents\2D-Survival\2D_Survival\Assets\GameData\GObjects\GItems\GItem.cs</TD><TD CLASS="MYTABLE">8</TD><TD CLASS="MYTABLE">4</TD><TD CLASS="MYTABLE">3</TD><TD CLASS="MYTABLE">0</TD><TD CLASS="MYTABLE">4</TD><TD CLASS="MYTABLE">0</TD><TD CLASS="MYTABLE">0</TD><TD CLASS="MYTABLE">0</TD><TD CLASS="MYTABLE">0</TD><TD CLASS="MYTABLE">0</TD><TR CLASS="MYTABLE"><TD CLASS="MYTABLEL">C:\Users\David\Documents\2D-Survival\2D_Survival\Assets\GameData\GObjects\GStructures\Barrel.cs</TD><TD CLASS="MYTABLE">8</TD><TD CLASS="MYTABLE">4</TD><TD CLASS="MYTABLE">3</TD><TD CLASS="MYTABLE">0</TD><TD CLASS="MYTABLE">4</TD><TD CLASS="MYTABLE">0</TD><TD CLASS="MYTABLE">0</TD><TD CLASS="MYTABLE">0</TD><TD CLASS="MYTABLE">0</TD><TD CLASS="MYTABLE">0</TD><TR CLASS="MYTABLE"><TD CLASS="MYTABLEL">C:\Users\David\Documents\2D-Survival\2D_Survival\Assets\GameData\GObjects\GStructures\GStructure.cs</TD><TD CLASS="MYTABLE">8</TD><TD CLASS="MYTABLE">4</TD><TD CLASS="MYTABLE">3</TD><TD CLASS="MYTABLE">0</TD><TD CLASS="MYTABLE">4</TD><TD CLASS="MYTABLE">0</TD><TD CLASS="MYTABLE">0</TD><TD CLASS="MYTABLE">0</TD><TD CLASS="MYTABLE">0</TD><TD CLASS="MYTABLE">0</TD><TR CLASS="MYTABLE"><TD CLASS="MYTABLEL">C:\Users\David\Documents\2D-Survival\2D_Survival\Assets\GameData\Scripts\GameData.cs</TD><TD CLASS="MYTABLE">113</TD><TD CLASS="MYTABLE">91</TD><TD CLASS="MYTABLE">57</TD><TD CLASS="MYTABLE">14</TD><TD CLASS="MYTABLE">20</TD><TD CLASS="MYTABLE">0</TD><TD CLASS="MYTABLE">2</TD><TD CLASS="MYTABLE">4</TD><TD CLASS="MYTABLE">0</TD><TD CLASS="MYTABLE">0</TD><TR CLASS="MYTABLE"><TD CLASS="MYTABLEL">C:\Users\David\Documents\2D-Survival\2D_Survival\Assets\GameData\Scripts\GTile.cs</TD><TD CLASS="MYTABLE">19</TD><TD CLASS="MYTABLE">13</TD><TD CLASS="MYTABLE">11</TD><TD CLASS="MYTABLE">0</TD><TD CLASS="MYTABLE">5</TD><TD CLASS="MYTABLE">0</TD><TD CLASS="MYTABLE">1</TD><TD CLASS="MYTABLE">4</TD><TD CLASS="MYTABLE">0</TD><TD CLASS="MYTABLE">0</TD><TR CLASS="MYTABLE"><TD CLASS="MYTABLEL">C:\Users\David\Documents\2D-Survival\2D_Survival\Assets\GameData\Scripts\WorldSector.cs</TD><TD CLASS="MYTABLE">38</TD><TD CLASS="MYTABLE">28</TD><TD CLASS="MYTABLE">24</TD><TD CLASS="MYTABLE">0</TD><TD CLASS="MYTABLE">8</TD><TD CLASS="MYTABLE">0</TD><TD CLASS="MYTABLE">2</TD><TD CLASS="MYTABLE">8</TD><TD CLASS="MYTABLE">0</TD><TD CLASS="MYTABLE">0</TD><TR CLASS="MYTABLE"><TD CLASS="MYTABLEL">C:\Users\David\Documents\2D-Survival\2D_Survival\Assets\Renderer\Objects\Scripts\ObjectRenderer.cs</TD><TD CLASS="MYTABLE">29</TD><TD CLASS="MYTABLE">19</TD><TD CLASS="MYTABLE">15</TD><TD CLASS="MYTABLE">1</TD><TD CLASS="MYTABLE">8</TD><TD CLASS="MYTABLE">0</TD><TD CLASS="MYTABLE">2</TD><TD CLASS="MYTABLE">7</TD><TD CLASS="MYTABLE">0</TD><TD CLASS="MYTABLE">0</TD><TR CLASS="MYTABLE"><TD CLASS="MYTABLEL">C:\Users\David\Documents\2D-Survival\2D_Survival\Assets\Renderer\Scripts\GameRenderer.cs</TD><TD CLASS="MYTABLE">220</TD><TD CLASS="MYTABLE">144</TD><TD CLASS="MYTABLE">100</TD><TD CLASS="MYTABLE">22</TD><TD CLASS="MYTABLE">59</TD><TD CLASS="MYTABLE">0</TD><TD CLASS="MYTABLE">17</TD><TD CLASS="MYTABLE">79</TD><TD CLASS="MYTABLE">0</TD><TD CLASS="MYTABLE">0</TD><TR CLASS="MYTABLE"><TD CLASS="MYTABLEL">C:\Users\David\Documents\2D-Survival\2D_Survival\Assets\Renderer\Terrain\Scripts\TerrainRenderer.cs</TD><TD CLASS="MYTABLE">134</TD><TD CLASS="MYTABLE">100</TD><TD CLASS="MYTABLE">76</TD><TD CLASS="MYTABLE">4</TD><TD CLASS="MYTABLE">30</TD><TD CLASS="MYTABLE">0</TD><TD CLASS="MYTABLE">4</TD><TD CLASS="MYTABLE">13</TD><TD CLASS="MYTABLE">0</TD><TD CLASS="MYTABLE">0</TD><TR CLASS="MYTABLE"><TD CLASS="MYTABLEL">C:\Users\David\Documents\2D-Survival\2D_Survival\Assets\Renderer\Terrain\Scripts\TerrainTextureManager.cs</TD><TD CLASS="MYTABLE">25</TD><TD CLASS="MYTABLE">20</TD><TD CLASS="MYTABLE">17</TD><TD CLASS="MYTABLE">3</TD><TD CLASS="MYTABLE">5</TD><TD CLASS="MYTABLE">0</TD><TD CLASS="MYTABLE">0</TD><TD CLASS="MYTABLE">0</TD><TD CLASS="MYTABLE">0</TD><TD CLASS="MYTABLE">0</TD><TR CLASS="MYTABLE"><TD CLASS="MYTABLEL">C:\Users\David\Documents\2D-Survival\2D_Survival\Assets\Scripts\GameObjectPool.cs</TD><TD CLASS="MYTABLE">46</TD><TD CLASS="MYTABLE">37</TD><TD CLASS="MYTABLE">29</TD><TD CLASS="MYTABLE">5</TD><TD CLASS="MYTABLE">9</TD><TD CLASS="MYTABLE">0</TD><TD CLASS="MYTABLE">0</TD><TD CLASS="MYTABLE">0</TD><TD CLASS="MYTABLE">0</TD><TD CLASS="MYTABLE">0</TD><TR CLASS="MYTABLE"><TD CLASS="MYTABLEL">C:\Users\David\Documents\2D-Survival\2D_Survival\Assets\Scripts\HashTable.cs</TD><TD CLASS="MYTABLE">13</TD><TD CLASS="MYTABLE">6</TD><TD CLASS="MYTABLE">4</TD><TD CLASS="MYTABLE">0</TD><TD CLASS="MYTABLE">7</TD><TD CLASS="MYTABLE">0</TD><TD CLASS="MYTABLE">0</TD><TD CLASS="MYTABLE">0</TD><TD CLASS="MYTABLE">0</TD><TD CLASS="MYTABLE">0</TD><TR CLASS="MYTABLE"><TD CLASS="MYTABLEL">C:\Users\David\Documents\2D-Survival\2D_Survival\Assets\Scripts\Types.cs</TD><TD CLASS="MYTABLE">216</TD><TD CLASS="MYTABLE">126</TD><TD CLASS="MYTABLE">104</TD><TD CLASS="MYTABLE">15</TD><TD CLASS="MYTABLE">34</TD><TD CLASS="MYTABLE">2</TD><TD CLASS="MYTABLE">56</TD><TD CLASS="MYTABLE">283</TD><TD CLASS="MYTABLE">0</TD><TD CLASS="MYTABLE">0</TD></TBODY></TABLE><p></p></BODY></HTML>

diff --git a/2D_Survival/Assets/GameController/Scripts/GameController.cs b/2D_Survival/Assets/GameController/Scripts/GameController.cs
@@ -1,12 +1,33 @@
 using UnityEngine;
 using System.Collections;
 
+
+/*
+ * 	Hierarchic structure of major game components:
+ * 
+ * 								 GameController
+ * 									   |
+ * 					+------------------+------------------+
+ * 					|			 		 			 	  |					   	   		 
+ * 			 	GameData	 			   	   		GameRenderer		 		  
+ * 					 								 	  |					  			 
+ * 											 	  +-------+-------+			
+ * 											 	  |				  |
+ * 	    								   TerrainRenderer	 ObjectRenderer
+ * 
+ * 
+ * 	GameController class:
+ * 		Directs progression of game program. Sets up itself and all other parts of the game structure, and directs game tick progression.
+ * 		It is intended to be the single most high-level entry point to the application, all other parts branch down from here.
+ * 
+ */
+
 public class GameController : MonoBehaviour {
 
 	public static GameController GController;
 	public static GameData_Settings DataSettings;
 
-	private bool game_started = false;
+	private bool game_started = false;				// this will be set to true once initialization is finished
 
 	void Awake() {
 		if (GController == null) {

diff --git a/2D_Survival/Assets/Renderer/Scripts/GameRenderer.cs b/2D_Survival/Assets/Renderer/Scripts/GameRenderer.cs
@@ -2,6 +2,15 @@
 using System.Collections;
 using System.Collections.Generic;
 
+/*
+ *	GameRenderer class:
+ *		Visualizes game elements in the view, managing the construction, destruction and updating of Unity GameObjects on every render tick.
+ *		It uses subsets of the world representation from the GameData object to visually reflect the state of the data using Unity GameObjects 
+ *		and other visual elements.
+ *		It works with a set of Update Queues, in which itself and other game components can enqueue or "schedule" rendering operations for game objects.
+ *		All the jobs in the Update Queues are performed every render tick. 
+ */
+
 public class GameRenderer : MonoBehaviour {
 
 	public static GameRenderer GRenderer;

diff --git a/2D_Survival/Assets/GameData/Scripts/GameData.cs b/2D_Survival/Assets/GameData/Scripts/GameData.cs
@@ -2,6 +2,14 @@
 using System.Collections;
 using System.Collections.Generic;
 
+/*
+ *	GameData class:
+ *		Contains all data for world simulation, and operates the data every tick to reflect time progression.
+ *		It is our model of the game world, in which the world and all of its constituents are represented.
+ *		Its data reflects the state of the world as of the current tick. 
+ *		It is not concerned with rendering, it only works on a conceptual world simulation.
+ */
+
 public class GameData : MonoBehaviour {
 
 	public static GameData GData;

diff --git a/2D_Survival/Assets/Scripts/Types.cs b/2D_Survival/Assets/Scripts/Types.cs
@@ -143,7 +143,7 @@ public class RendererTerrainUpdateQueues {
  * 				non-movables: door, wall, window...
  * 
  * 		Actors:
- * 			Mobile - may move through its own accord
+ * 			Mobile - may move and/or act through its own accord
  * 				mobiles: player, NPCs, animals, critters
  * 				non-mobiles: trees, vegetation, rocks			
  * 

diff --git a/2D_Survival/Assets/Renderer/Terrain/Scripts/TerrainRenderer.cs b/2D_Survival/Assets/Renderer/Terrain/Scripts/TerrainRenderer.cs
@@ -2,6 +2,11 @@
 using System.Collections;
 using System.Collections.Generic;
 
+/*
+ *	GameRenderer class:
+ *		Subcomponent of GameRenderer, which renders the terrain elements associated to a WorldSector. 
+ */
+
 public class TerrainRenderer : MonoBehaviour {
 
 	public TerrainTextureManager texMan;

diff --git a/2D_Survival/Assets/GameData/GObjects/GObject.cs b/2D_Survival/Assets/GameData/GObjects/GObject.cs
@@ -1,6 +1,14 @@
 using UnityEngine;
 using System.Collections;
 
+/*
+ *	GObject class:
+ *		A GObject can be one of the following elements:
+ *			-GObject_Structure
+ *			-GObject_Actor
+ *			-GObject_Item
+ */
+
 public class GObject {
 	public GTile tile;
 	public float offset_x;

diff --git a/2D_Survival/Assets/Renderer/Objects/Scripts/ObjectRenderer.cs b/2D_Survival/Assets/Renderer/Objects/Scripts/ObjectRenderer.cs
@@ -2,6 +2,10 @@
 using System.Collections;
 using System.Collections.Generic;
 
+/*
+ *	GameRenderer class:
+ *		Subcomponent of GameRenderer, which renders GObjects 
+ */
 public class ObjectRenderer : MonoBehaviour {
 
 	public GameObject gobject;
